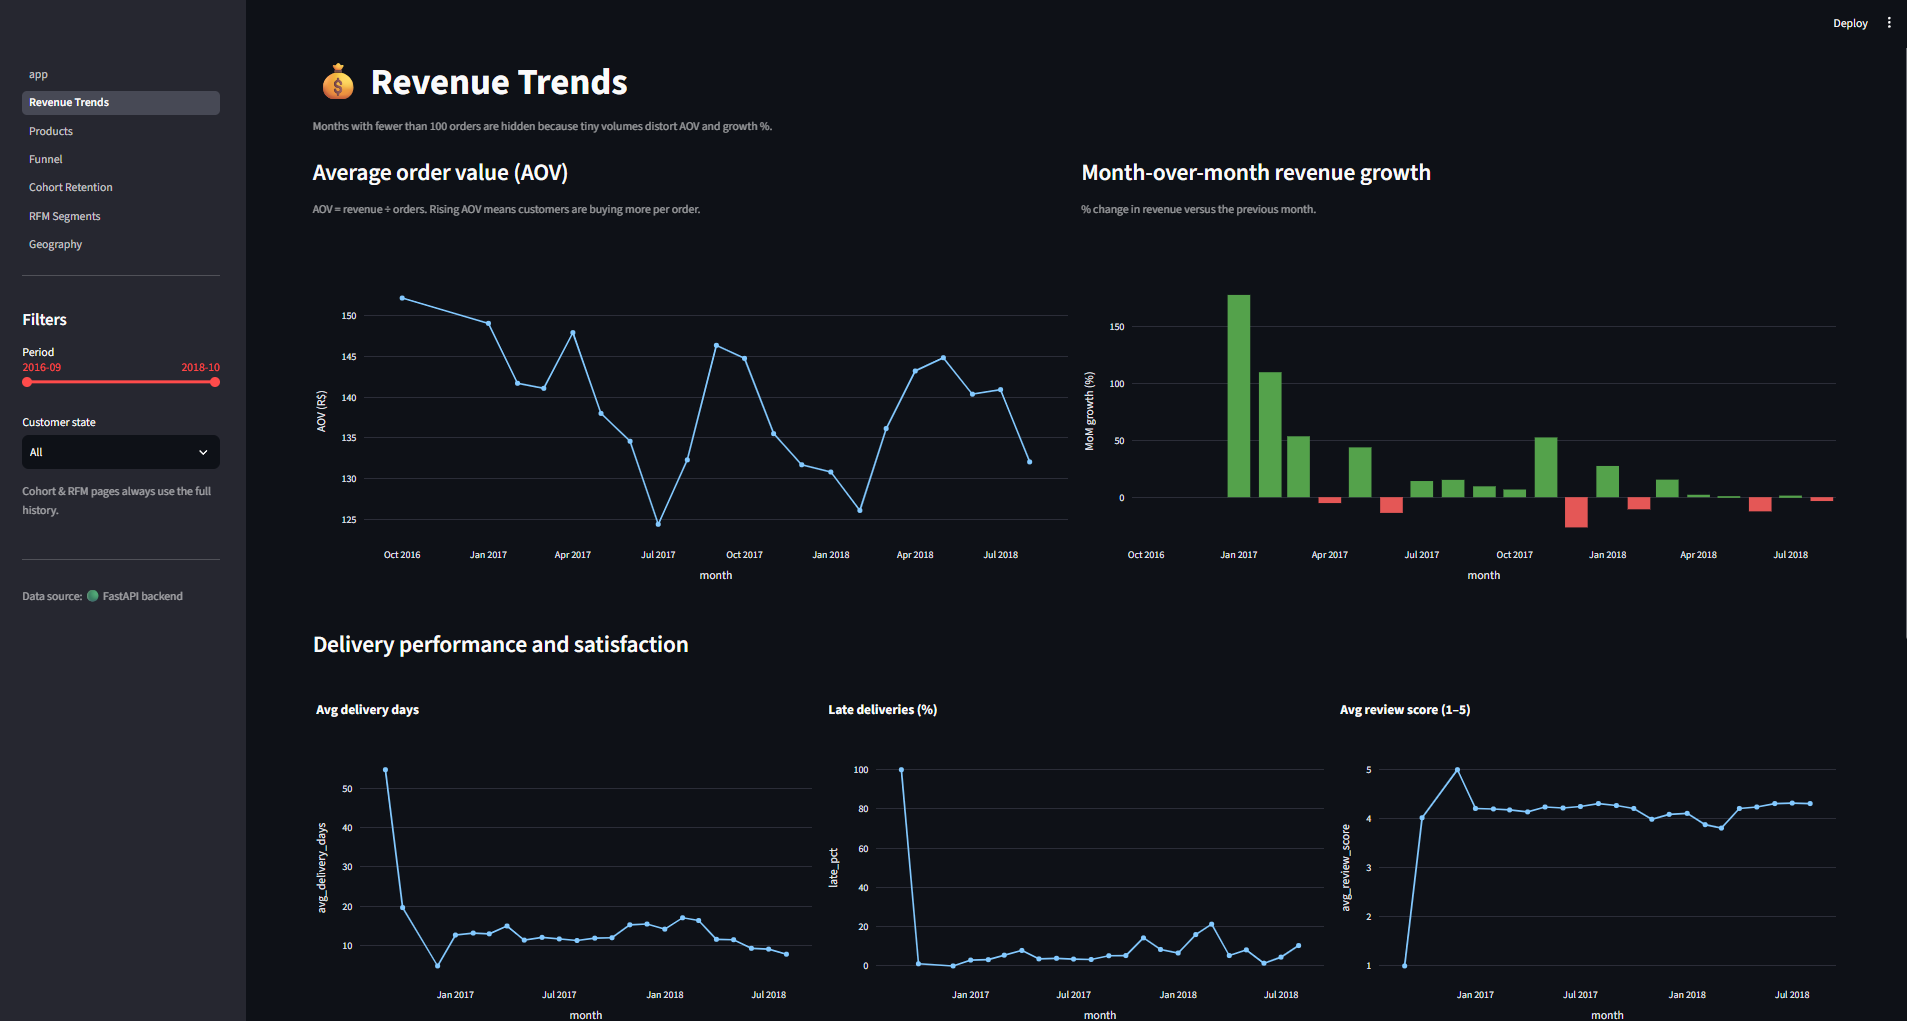
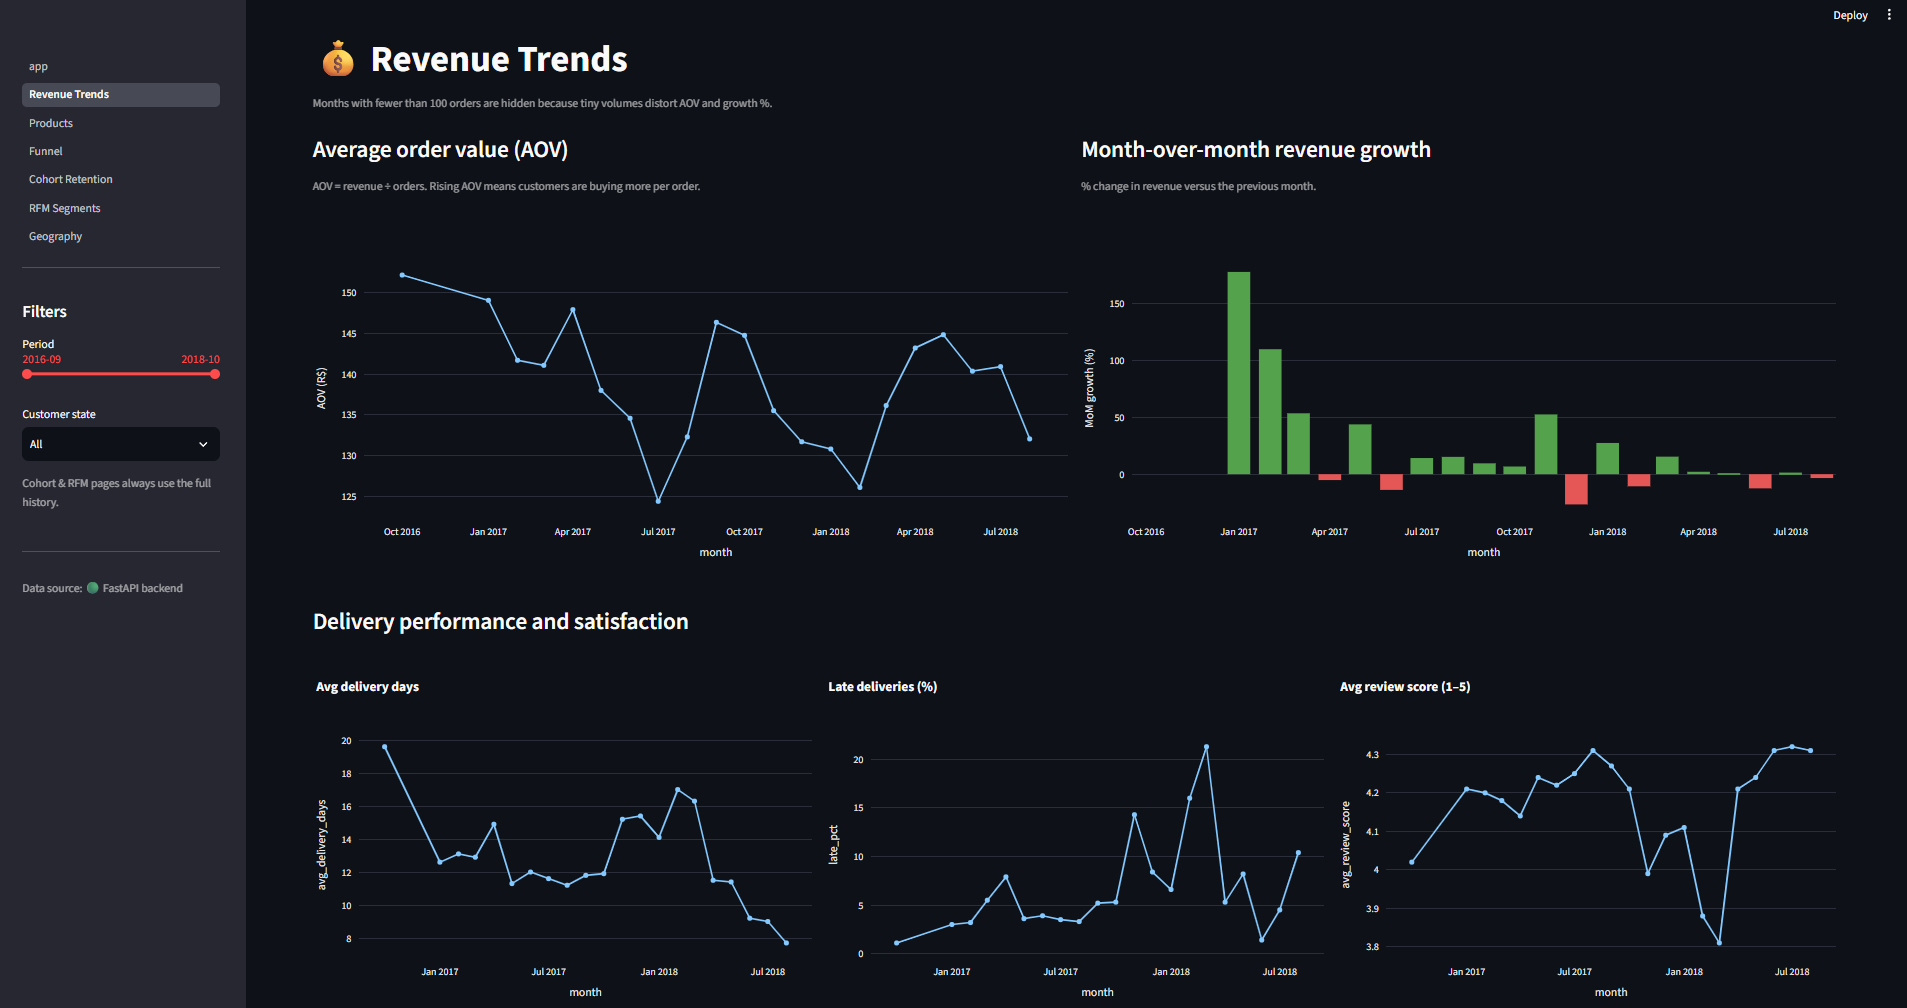
Add key insights and clean delivery charts

diff --git a/dashboard/pages/1_Revenue_Trends.py b/dashboard/pages/1_Revenue_Trends.py
@@ -33,6 +33,7 @@ with b:
 
 st.subheader("Delivery performance and satisfaction")
 delivery = fetch("delivery", **f)
+delivery = delivery[delivery.month.isin(monthly.month)]
 a, b, c = st.columns(3)
 a.plotly_chart(px.line(delivery, x="month", y="avg_delivery_days", markers=True, title="Avg delivery days"),
                width="stretch")

diff --git a/README.md b/README.md
@@ -15,6 +15,30 @@ It answers the questions a product/data analyst gets asked every week: *How is r
 | ![Funnel](docs/screenshots/funnel.png) | ![Cohort retention](docs/screenshots/cohort-retention.png) |
 | ![RFM segments](docs/screenshots/rfm-segments1.png) | ![RFM segment details](docs/screenshots/rfm-segments2.png) |
 
+## Key insights
+
+Based on 96,478 delivered orders (R$ 13.2M revenue, 93,358 customers) from late 2016 to 2018:
+
+- **Growth came from order volume, not bigger baskets.** Monthly revenue rose from R$ 112K in Jan 2017 to roughly R$ 0.85–1M by late 2017, then plateaued. Average order value stayed in a narrow band of roughly R$ 125–152 throughout.
+- **The top 10 categories generate 62% of revenue.** `health_beauty` (9.3%), `watches_gifts` (8.8%) and `bed_bath_table` (7.7%) lead; the top 5 account for 39.8%.
+- **Categories win in different ways.** `bed_bath_table` has the most orders (9,272) at a low average price (R$ 93), while `watches_gifts` earns more revenue (R$ 1.17M vs R$ 1.02M) with about 40% fewer orders (5,495), thanks to a R$ 199 average price.
+- **The order funnel is healthy.** 97.0% of orders reach delivery and 96.4% are reviewed. The largest drop is between approval and shipping (1,623 orders, 1.6%), so that is where operational fixes matter most.
+- **Retention is the weak spot.** Only 3.0% of customers (2,801 of 93,358) ever ordered a second time, and month-1 retention is below 1% in every cohort. The business depends on constantly acquiring new customers.
+- **Most revenue sits with one-time buyers.** "New High-Value" (14,492 customers) and "At Risk (High-Value)" (13,772 customers) together generate R$ 7.7M, or 58% of revenue, from 30% of customers. Repeat buyers (Champions + Loyal) are just 3% of customers and 5.5% of revenue.
+- **Payments and geography.** Credit cards make up 78.5% of payment value and boleto 18%. São Paulo is by far the largest market, followed by RJ and MG.
+
+### Recommendations
+
+1. **Win-back campaign for "At Risk (High-Value)".** These 13,772 customers spent R$ 276 on average but have been inactive for about 14 months, and they account for 29% of revenue. Illustratively, every 1% reactivated is roughly 138 customers, or about R$ 38K at their historical average spend.
+2. **Early-life retention for "New High-Value" customers.** With month-1 retention under 1%, a follow-up offer in the first 30–60 days targets the biggest recent spenders before they lapse.
+3. **Investigate approval-to-shipping losses and late-delivery months**, since both affect satisfaction and cancellations.
+
+### Caveats
+
+- The funnel follows order lifecycle timestamps because the dataset has no click-stream data.
+- Months with fewer than 100 orders (late 2016) are hidden from trend charts, since small volumes distort averages and growth rates.
+- Customers are identified by `customer_unique_id`; recency in the RFM analysis is measured against the newest order in the dataset.
+
 ## Architecture
 
 ```
